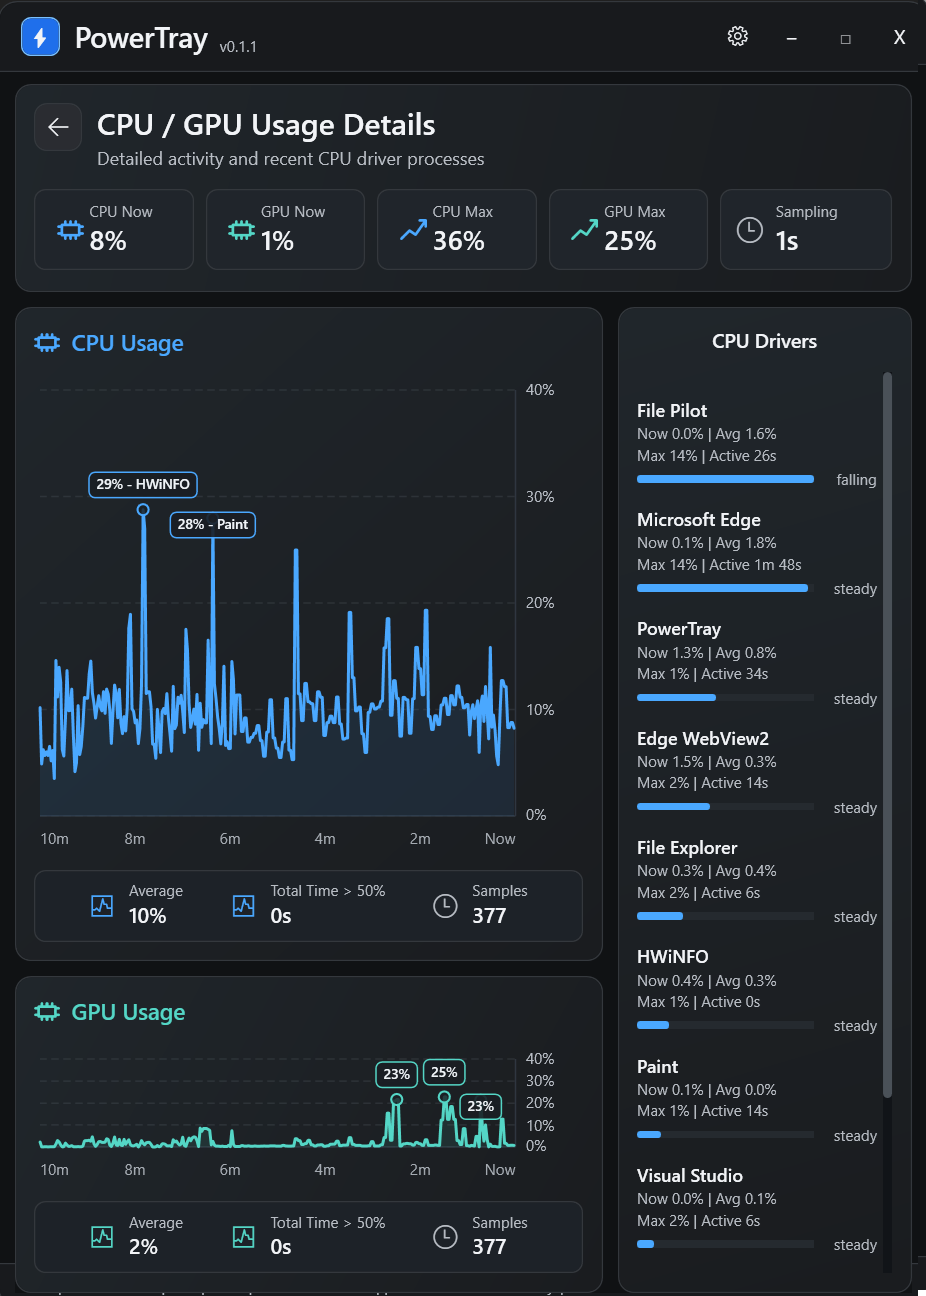
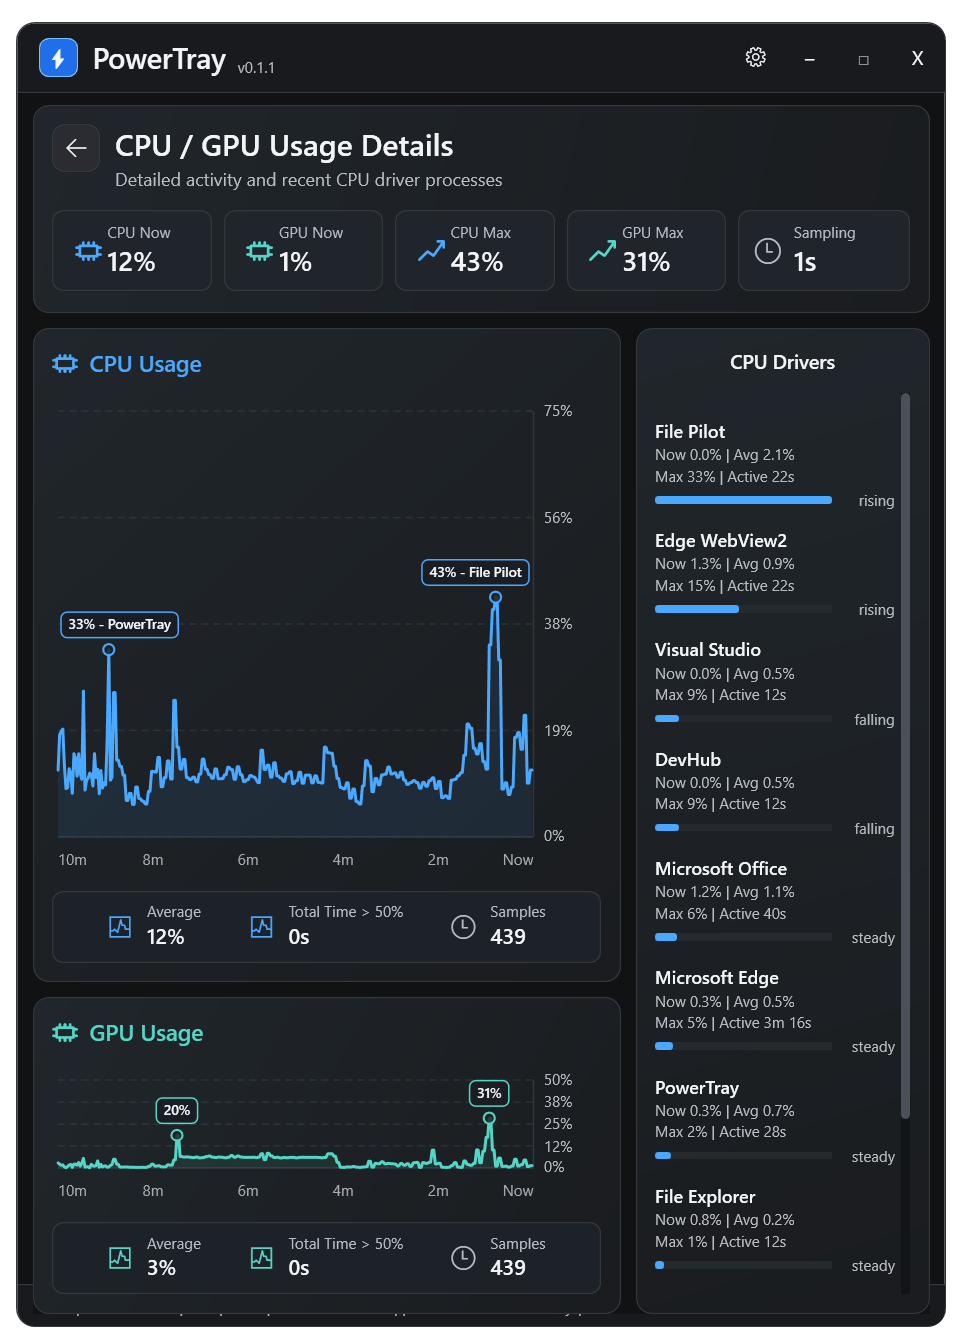
Energy saver on/off fix

diff --git a/PowerTray/Services/BatteryService.cs b/PowerTray/Services/BatteryService.cs
@@ -1,7 +1,6 @@
 using System.Runtime.InteropServices;
 using System.Management;
-using System.IO;
-using System.Security;
+using System.Reflection;
 using Microsoft.Win32;
 using PowerTray.Models;
 
@@ -176,17 +175,57 @@ public sealed class BatteryService
         }
     }
 
-    private static bool IsEnergySaverActive(SystemPowerStatus status) =>
-        status.SystemStatusFlag == 1 || TryReadEnergySaverState() == 2;
+    private static bool IsEnergySaverActive(SystemPowerStatus status)
+    {
+        bool? registryEnergySaverStatus = TryReadEnergySaverState();
+        if (registryEnergySaverStatus.HasValue)
+        {
+            return registryEnergySaverStatus.Value;
+        }
 
-    private static int? TryReadEnergySaverState()
+        bool? liveEnergySaverStatus = TryReadLiveEnergySaverStatus();
+        return liveEnergySaverStatus ?? status.SystemStatusFlag == 1;
+    }
+
+    private static bool? TryReadEnergySaverState()
     {
         try
         {
             object? value = Registry.GetValue(@"HKEY_LOCAL_MACHINE\SYSTEM\CurrentControlSet\Control\Power", "EnergySaverState", null);
-            return value is null ? null : Convert.ToInt32(value);
+            return Convert.ToInt32(value) switch
+            {
+                1 => true,
+                0 or 2 => false,
+                _ => null
+            };
         }
-        catch (Exception ex) when (ex is SecurityException or IOException or UnauthorizedAccessException or InvalidCastException or FormatException or OverflowException)
+        catch
+        {
+            return null;
+        }
+    }
+
+    private static bool? TryReadLiveEnergySaverStatus()
+    {
+        const string WindowsSystemPowerManager = "Windows.System.Power.PowerManager, Windows.System, ContentType=WindowsRuntime";
+        const string WindowsPowerManager = "Windows.System.Power.PowerManager, Windows, ContentType=WindowsRuntime";
+
+        try
+        {
+            Type? powerManagerType = Type.GetType(WindowsSystemPowerManager, throwOnError: false)
+                ?? Type.GetType(WindowsPowerManager, throwOnError: false);
+            object? status = powerManagerType?
+                .GetProperty("EnergySaverStatus", BindingFlags.Public | BindingFlags.Static)?
+                .GetValue(null);
+
+            return status?.ToString() switch
+            {
+                "On" => true,
+                "Off" or "Disabled" => false,
+                _ => null
+            };
+        }
+        catch
         {
             return null;
         }
